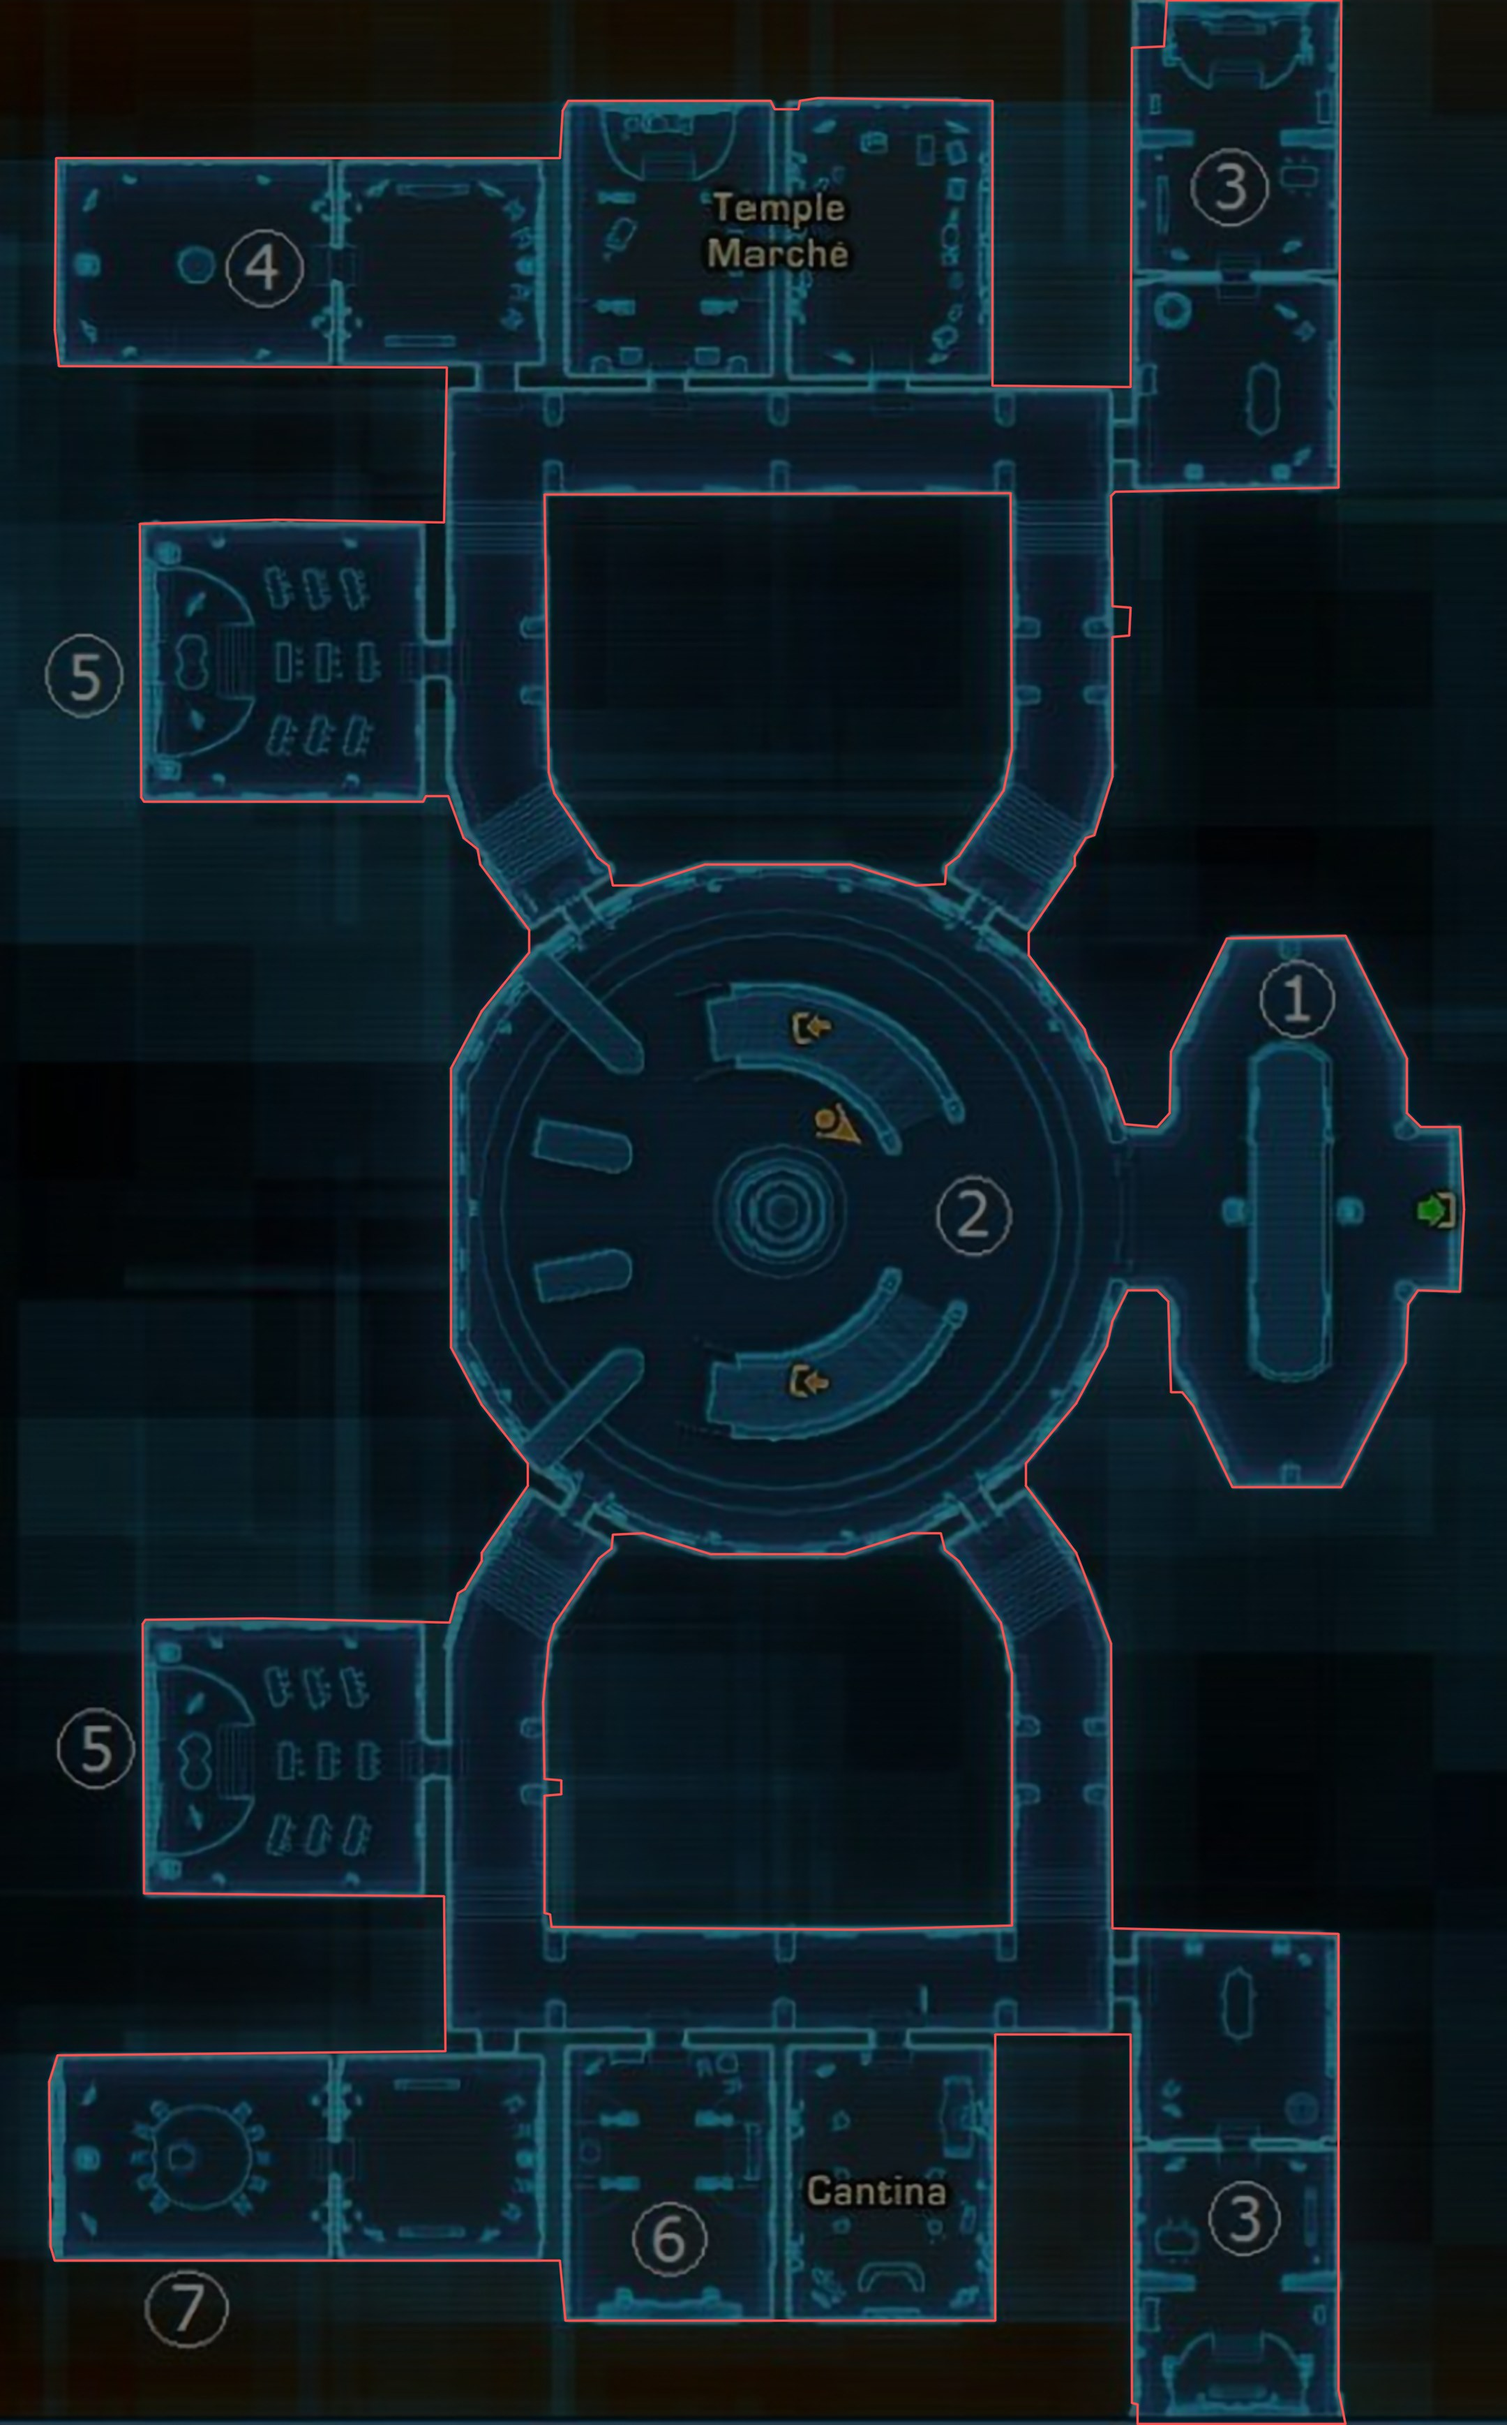
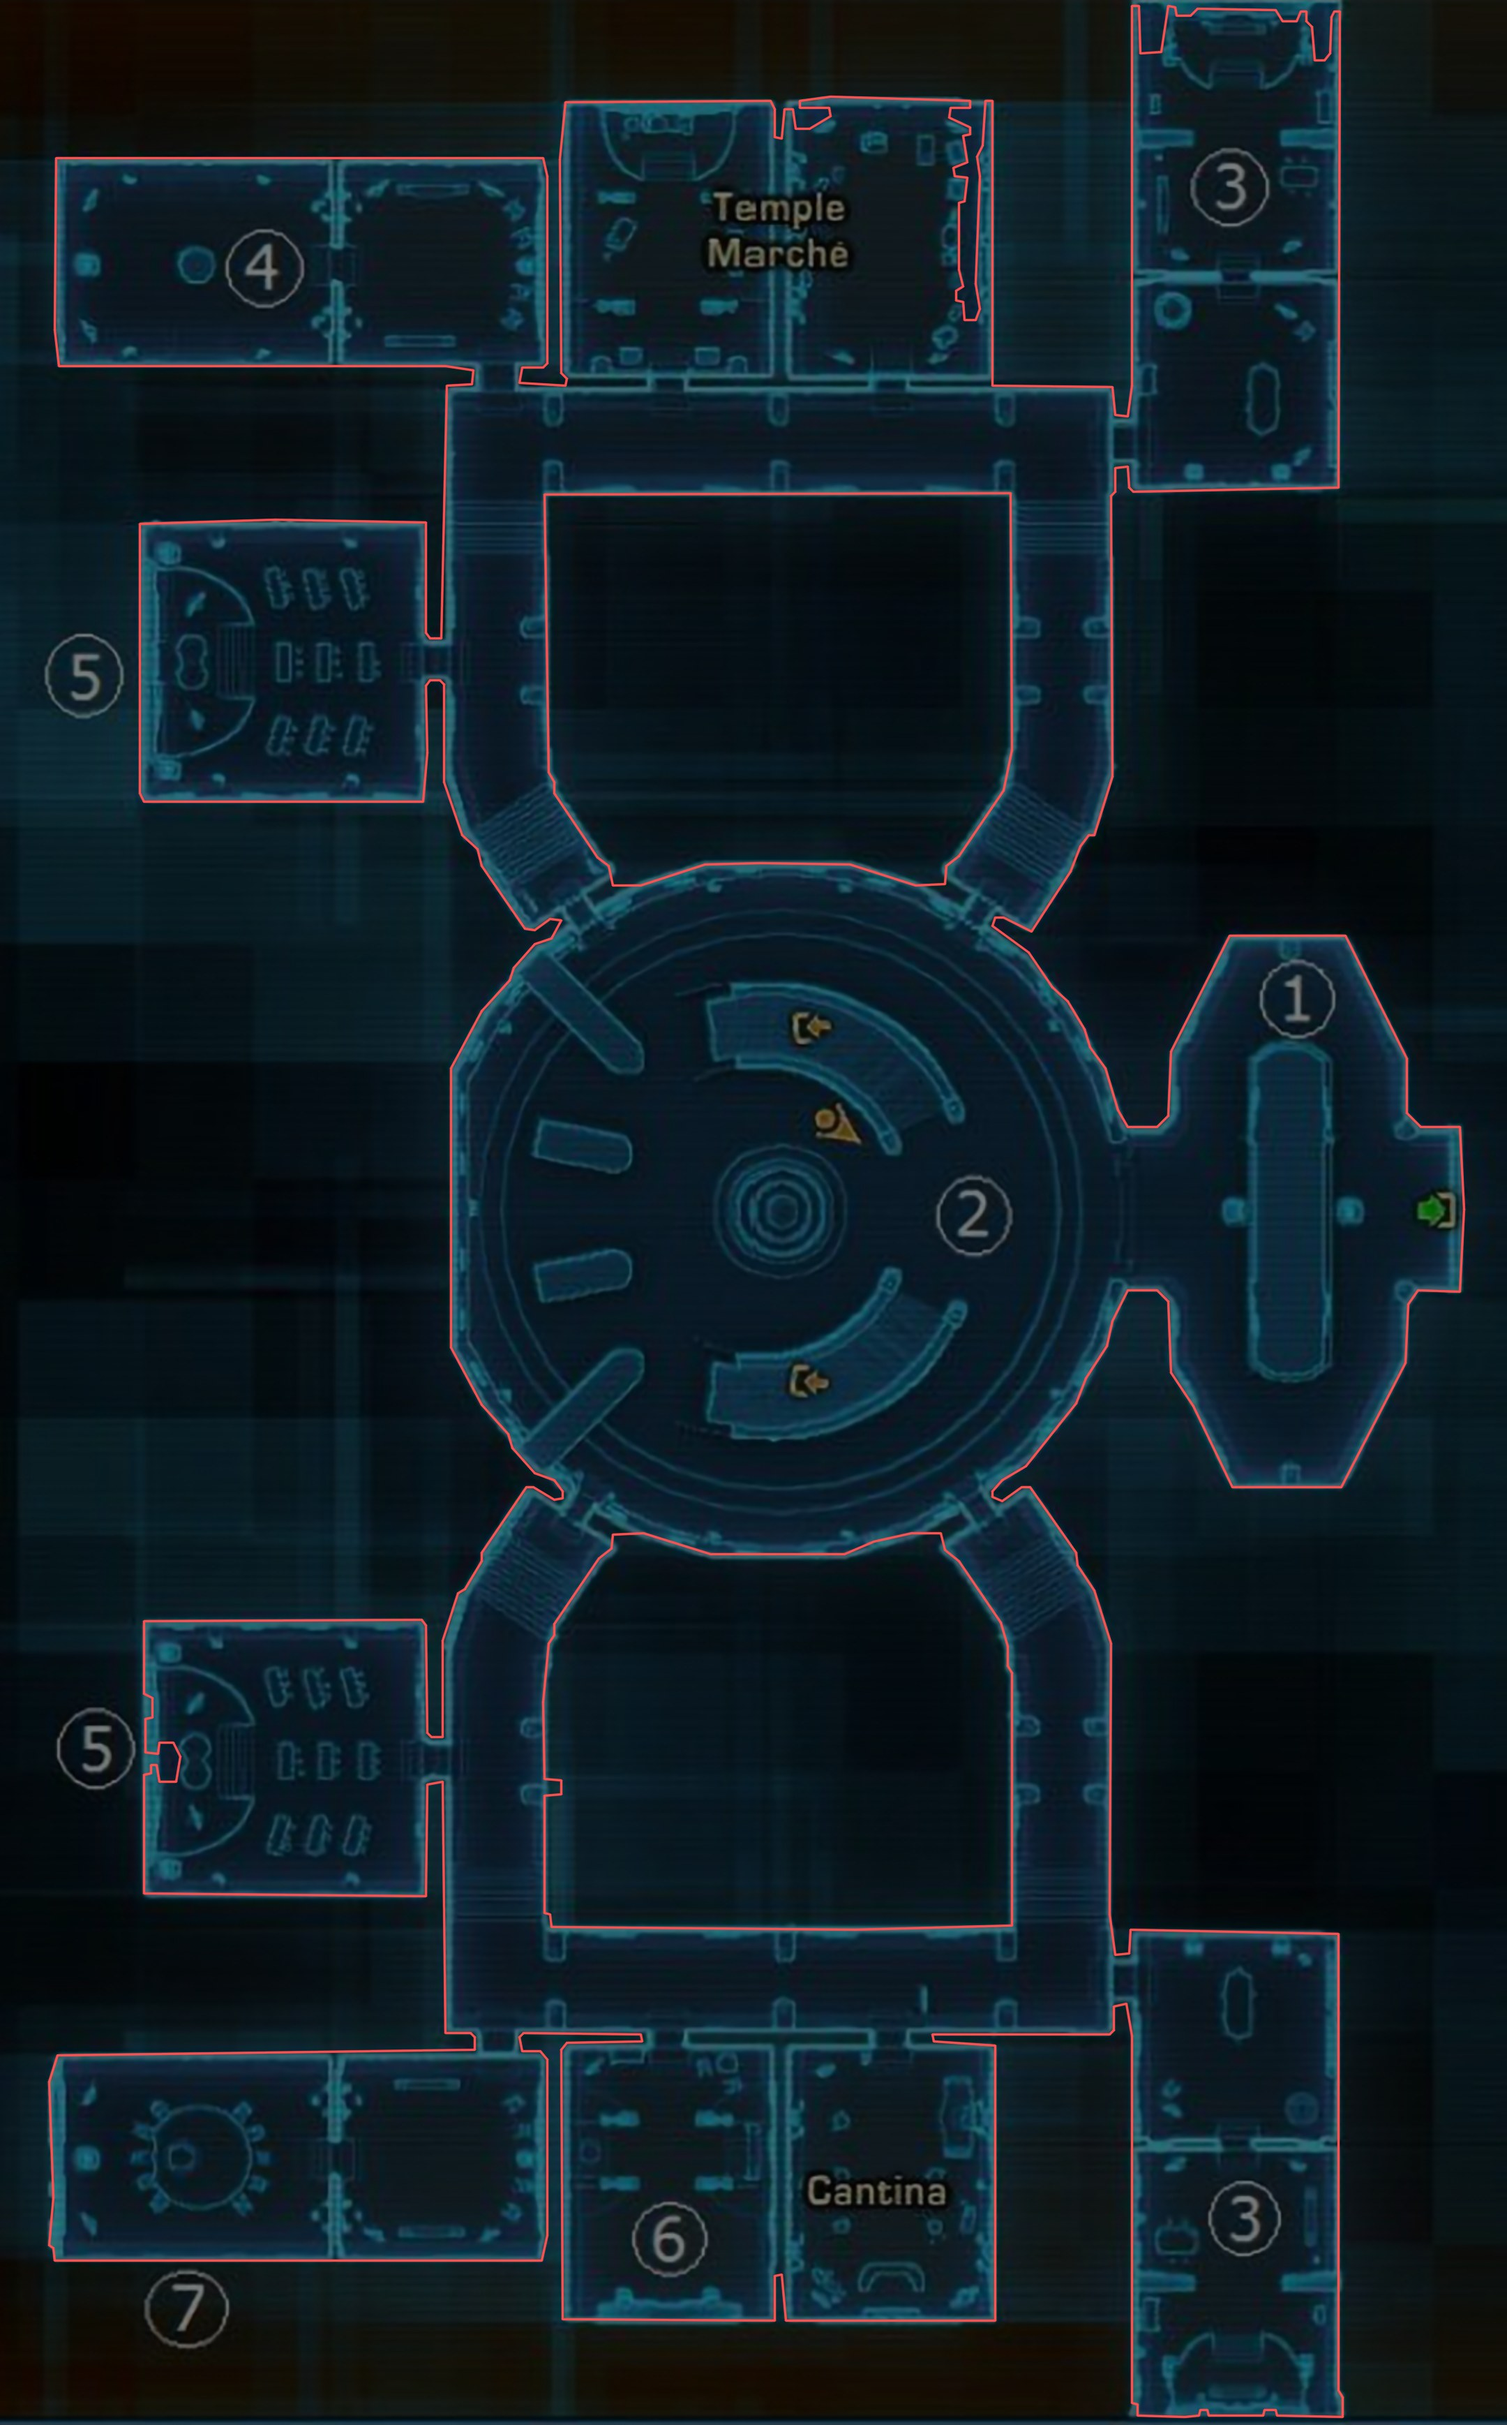
v13.15: wall trace steps into every notch between rooms; temple outline redone
Claude-Session: https://claude.ai/code/session_01SinQW9aeLHqCBjq9e21Gyo

diff --git a/web_shell.html b/web_shell.html
@@ -4,8 +4,8 @@
 <meta charset="utf-8">
 <meta name="viewport" content="width=device-width,initial-scale=1,maximum-scale=1,user-scalable=no,viewport-fit=cover">
 <meta name="theme-color" content="#f6f9fc">
-<meta name="hl-version" content="v13.14">
-<title>Homelancer Digital v13.14</title>
+<meta name="hl-version" content="v13.15">
+<title>Homelancer Digital v13.15</title>
 <style>
 *{box-sizing:border-box}
 html,body{margin:0;width:100%;height:100%;background:#f6f9fc;color:#0e2f5a;font:16px system-ui,sans-serif;overflow:hidden;touch-action:none}

diff --git a/tools/trace/wall_trace.py b/tools/trace/wall_trace.py
@@ -31,7 +31,7 @@ ap.add_argument("--dark", type=int, default=65, help="max mean brightness of an 
 ap.add_argument("--mode", default="line", choices=["line", "glow"])
 ap.add_argument("--bright", type=int, default=140, help="glow mode: brightness of the outline")
 ap.add_argument("--notch", type=int, default=9, help="glow mode: closes desk / console bites up to this many px")
-ap.add_argument("--eps", type=float, default=2.5); ap.add_argument("--scale", type=int, default=2)
+ap.add_argument("--eps", type=float, default=2.0); ap.add_argument("--scale", type=int, default=2)
 a = ap.parse_args()
 os.makedirs(a.out, exist_ok=True)
 src = cv2.imread(a.image)
@@ -71,18 +71,26 @@ def line_solid():
     n, lab, st, _ = cv2.connectedComponentsWithStats(1 - seal, 4)
     border = (set(lab[0, :]) | set(lab[-1, :]) | set(lab[:, 0]) | set(lab[:, -1])) - {0}
     solid = (~np.isin(lab, list(border))).astype(np.uint8)
+    floor = ((lab > 0) & ~np.isin(lab, list(border))).astype(np.uint8)       # rooms and corridors
     courts = np.zeros_like(solid)
     for i in range(1, n):
         if i not in border and st[i, 4] > a.court and v[lab == i].mean() < a.dark: courts[lab == i] = 1
+    # owner (11 Nov): the outline goes INTO every notch between rooms and back out, it doesn't bridge them. The
+    # sealing above bridges them, so the real outside is flooded again with only the walls and the room floors as
+    # barriers (it reaches every notch, never a room).
+    barrier = cv2.dilate(line, np.ones((3, 3), np.uint8)) | cv2.dilate(floor, np.ones((9, 9), np.uint8))
+    nb, lb, _, _ = cv2.connectedComponentsWithStats(1 - barrier, 4)
+    bb = (set(lb[0, :]) | set(lb[-1, :]) | set(lb[:, 0]) | set(lb[:, -1])) - {0}
+    solid[np.isin(lb, list(bb))] = 0
     solid[cv2.dilate(courts, np.ones((5, 5), np.uint8)) > 0] = 0
-    solid = cv2.morphologyEx(solid, cv2.MORPH_OPEN, np.ones((9, 9), np.uint8))
+    solid = cv2.morphologyEx(solid, cv2.MORPH_OPEN, np.ones((5, 5), np.uint8))
     n2, l2, s2, _ = cv2.connectedComponentsWithStats(solid, 8)
     solid = (l2 == 1 + np.argmax(s2[1:, 4])).astype(np.uint8)
-    return solid
+    return cv2.morphologyEx(solid, cv2.MORPH_CLOSE, cv2.getStructuringElement(cv2.MORPH_RECT, (5, 5)))
 
 if a.mode == "glow":
     if a.court == 30000: a.court = 5000
-    if a.eps == 2.5: a.eps = 2.2
+    if a.eps == 2.0: a.eps = 2.2
     solid = glow_solid()
 else: solid = line_solid()
 cs, h = cv2.findContours(solid, cv2.RETR_CCOMP, cv2.CHAIN_APPROX_NONE)

diff --git a/tools/trace/README.md b/tools/trace/README.md
@@ -8,7 +8,11 @@ crop pixels) to extrude into a graybox later.
 | Folder | Source | Mode | Status |
 | --- | --- | --- | --- |
 | `hub_hex_01` | hex hub with four rooms (owner, via GPT) | `--mode glow --crop 655:1745,0:1080` | approved 11 Nov |
-| `temple_02` | Temple Marché / Cantina level | `--mode line` (default) | shown 11 Nov |
+| `temple_02` | Temple Marché / Cantina level | `--mode line` (default) | outer silhouette into every notch, approved 11 Nov |
 
 Not yet: the real-world size (metres per pixel) for each one, doors, and inner walls between rooms. Ask the owner
 for one size (whole width or one door) before extruding.
+
+Owner rules learned on `temple_02`: the outline must step INTO every notch between rooms and back out (never bridge
+across); only the outer white line is used for extruding (inner face lines were too messy). Corridor diagonals with
+tread lines are stairs: the two mirrored pairs lead up to a second floor.

diff --git a/docs/V1.2_BUILD.md b/docs/V1.2_BUILD.md
@@ -2114,3 +2114,9 @@ the camera automatically does a zoom to that section ... helmet, body, lower bod
 - Owner: "save it as a skill ... save that room image so we can extrude it later."
 - `tools/trace/wall_trace.py` (two map styles: `glow`, `line`), with `hub_hex_01` (approved) and `temple_02` traces:
   source, crop, white-on-black wall trace, overlay, and polygons for extruding. Nothing extruded or in the game yet.
+
+## v13.15 — temple trace follows every notch (no game change)
+- Owner: the outline must go inside every section that moves inward and back out, not bridge across it; keep only
+  the outer white line.
+- `tools/trace/wall_trace.py` line mode now re-floods the outside with walls and room floors as barriers, so the
+  outline steps into the notches between rooms. `temple_02` redone and approved; `hub_hex_01` unchanged.
